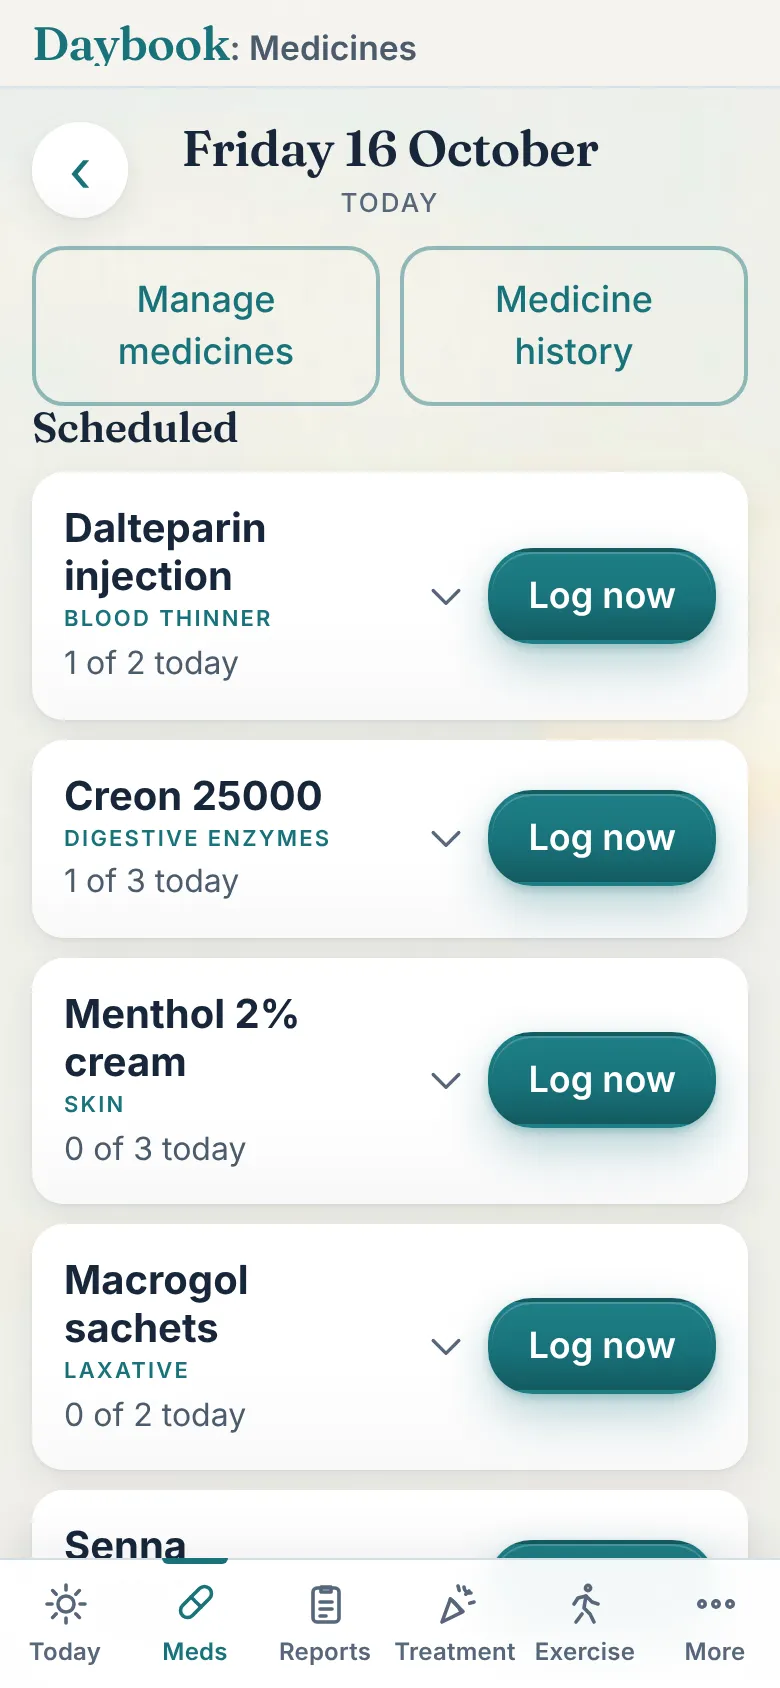
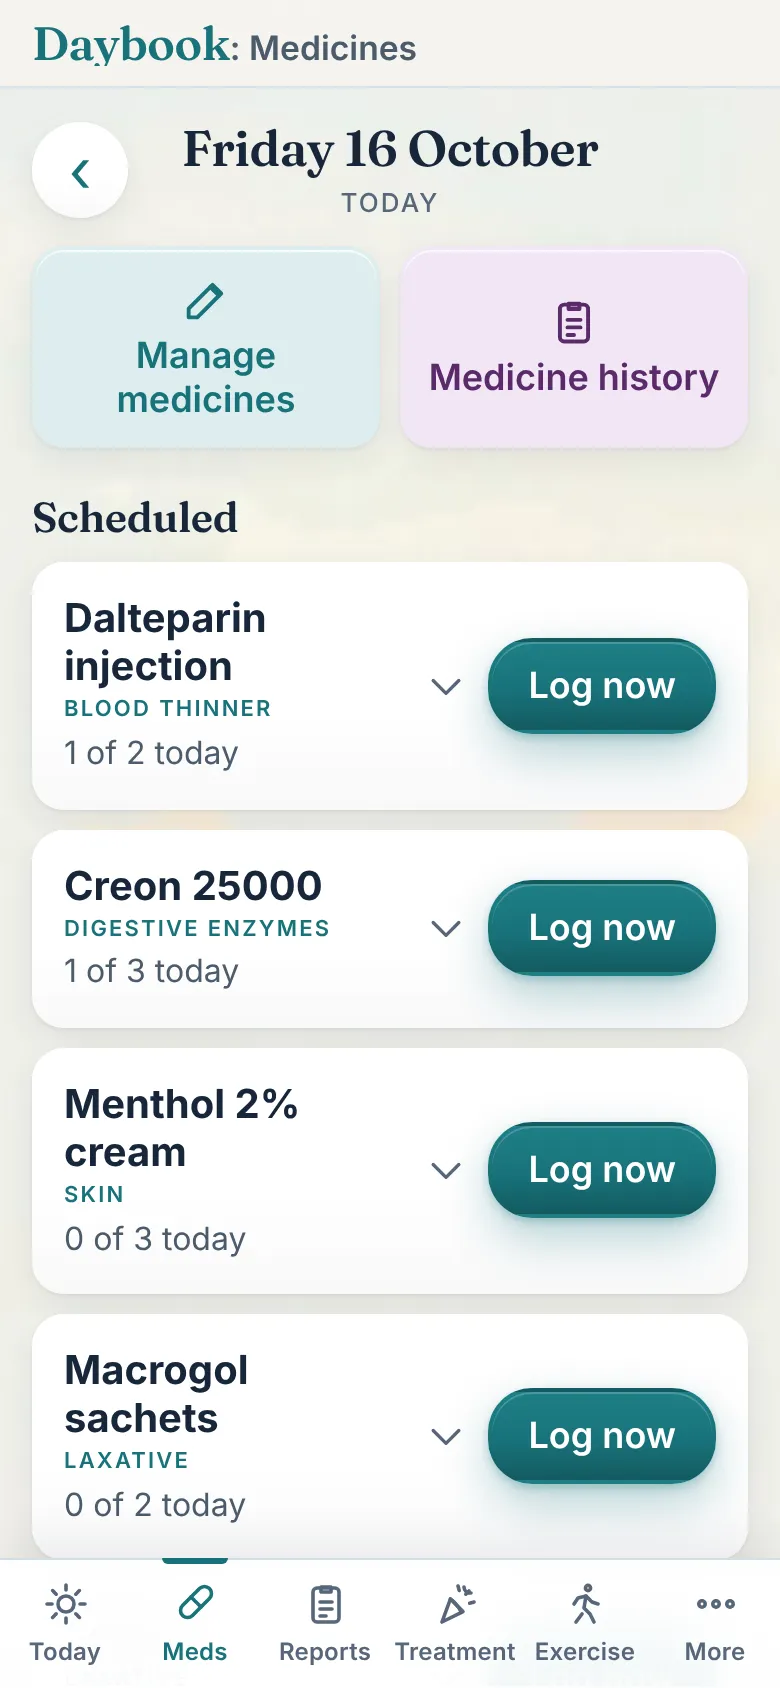
Guide recopied from the app's v257 (the Meds tab's new buttons); guide.json?v=10
Claude-Session: https://claude.ai/code/session_011Z7XoZPgBCYp6woCmABn2P

diff --git a/js/site.js b/js/site.js
@@ -110,7 +110,7 @@
       if (!reduced && auto !== false) play(); else stop();
     };
     var load = function () {
-      return fetch('guide/guide.json?v=9').then(function (r) { if (!r.ok) throw new Error('guide ' + r.status); return r.json(); });
+      return fetch('guide/guide.json?v=10').then(function (r) { if (!r.ok) throw new Error('guide ' + r.status); return r.json(); });
     };
     load().then(function (d) {
       G.data = d;

diff --git a/privacy.html b/privacy.html
@@ -106,6 +106,6 @@
       <p>Daybook is not a medical device and gives no medical advice. In an emergency call 999; for urgent advice call 111.</p>
     </div>
   </footer>
-  <script src="js/site.js?v=12" defer></script>
+  <script src="js/site.js?v=13" defer></script>
 </body>
 </html>

diff --git a/support.html b/support.html
@@ -75,6 +75,6 @@
       <p>Daybook is not a medical device and gives no medical advice. In an emergency call 999; for urgent advice call 111.</p>
     </div>
   </footer>
-  <script src="js/site.js?v=12" defer></script>
+  <script src="js/site.js?v=13" defer></script>
 </body>
 </html>

diff --git a/terms.html b/terms.html
@@ -83,6 +83,6 @@
       <p>Daybook is not a medical device and gives no medical advice. In an emergency call 999; for urgent advice call 111.</p>
     </div>
   </footer>
-  <script src="js/site.js?v=12" defer></script>
+  <script src="js/site.js?v=13" defer></script>
 </body>
 </html>

diff --git a/beta.html b/beta.html
@@ -153,6 +153,6 @@
     </div>
   </footer>
 
-  <script src="js/site.js?v=12" defer></script>
+  <script src="js/site.js?v=13" defer></script>
 </body>
 </html>

diff --git a/index.html b/index.html
@@ -417,6 +417,6 @@
     </div>
   </footer>
 
-  <script src="js/site.js?v=12" defer></script>
+  <script src="js/site.js?v=13" defer></script>
 </body>
 </html>

diff --git a/preview-e2k1x5.html b/preview-e2k1x5.html
@@ -473,6 +473,6 @@
     </div>
   </footer>
 
-  <script src="js/site.js?v=12" defer></script>
+  <script src="js/site.js?v=13" defer></script>
 </body>
 </html>
